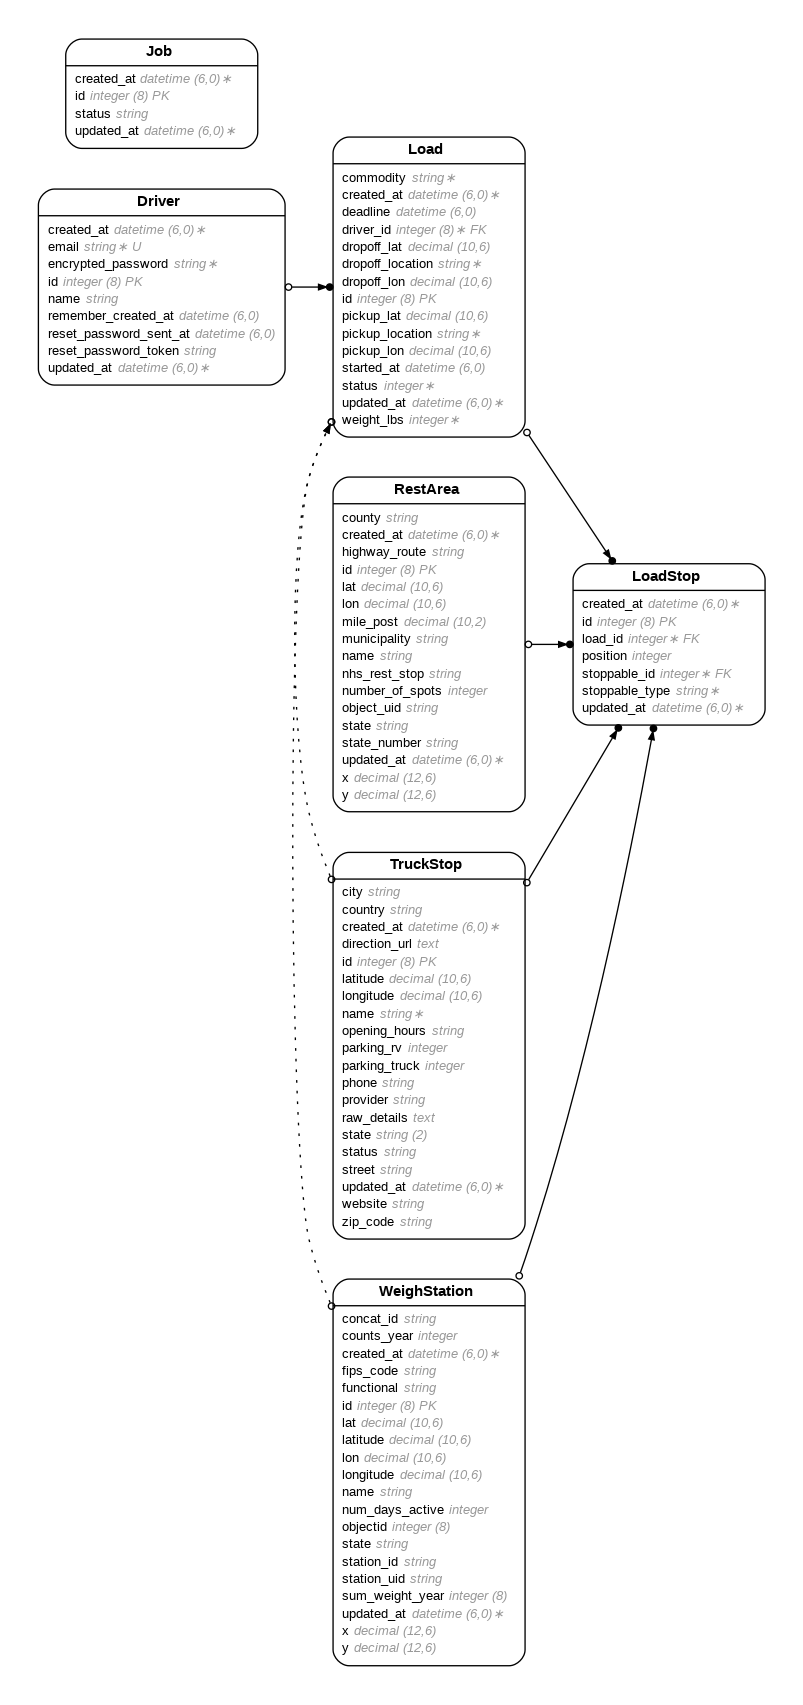
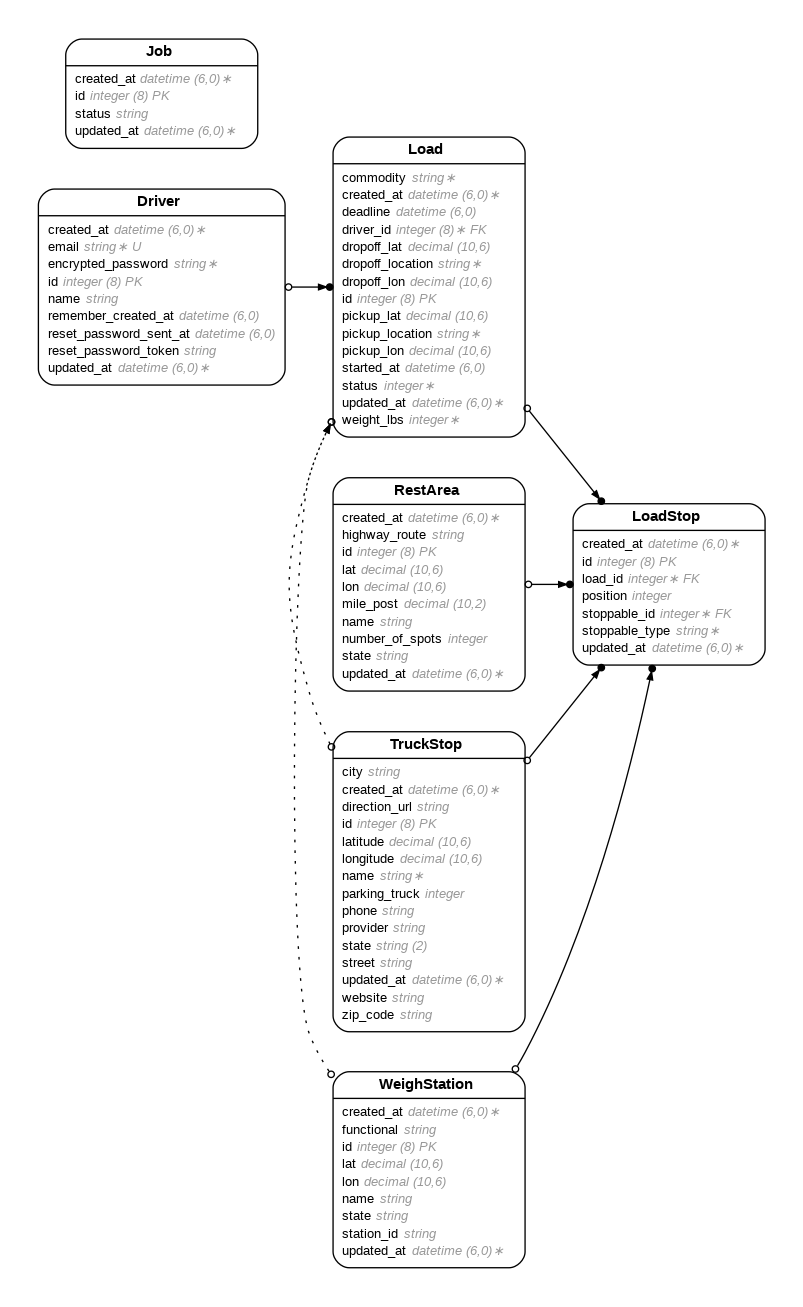
cleaned ununsed columns

diff --git a/db/schema.rb b/db/schema.rb
@@ -10,7 +10,7 @@
 #
 # It's strongly recommended that you check this file into your version control system.
 
-ActiveRecord::Schema[8.0].define(version: 2025_09_17_032904) do
+ActiveRecord::Schema[8.0].define(version: 2025_09_17_062533) do
   # These are extensions that must be enabled in order to support this database
   enable_extension "pg_catalog.plpgsql"
 
@@ -65,24 +65,16 @@ ActiveRecord::Schema[8.0].define(version: 2025_09_17_032904) do
   end
 
   create_table "rest_areas", force: :cascade do |t|
-    t.string "object_uid"
-    t.string "state_number"
-    t.string "nhs_rest_stop"
     t.string "highway_route"
     t.decimal "mile_post", precision: 10, scale: 2
-    t.string "municipality"
-    t.string "county"
     t.string "state"
     t.decimal "lat", precision: 10, scale: 6
     t.decimal "lon", precision: 10, scale: 6
     t.integer "number_of_spots"
-    t.decimal "x", precision: 12, scale: 6
-    t.decimal "y", precision: 12, scale: 6
     t.string "name"
     t.datetime "created_at", null: false
     t.datetime "updated_at", null: false
     t.index ["lat", "lon"], name: "index_rest_areas_on_lat_and_lon"
-    t.index ["object_uid"], name: "index_rest_areas_on_object_uid", unique: true
     t.index ["state", "highway_route", "mile_post"], name: "index_rest_areas_on_state_and_highway_route_and_mile_post"
   end
 
@@ -250,51 +242,34 @@ ActiveRecord::Schema[8.0].define(version: 2025_09_17_032904) do
   create_table "truck_stops", force: :cascade do |t|
     t.string "name", null: false
     t.string "provider"
-    t.string "website"
     t.string "phone"
-    t.string "opening_hours"
     t.string "street"
     t.string "city"
     t.string "state", limit: 2
     t.string "zip_code"
-    t.string "country", default: "US"
-    t.string "status", default: "active"
-    t.text "direction_url"
     t.decimal "latitude", precision: 10, scale: 6
     t.decimal "longitude", precision: 10, scale: 6
     t.integer "parking_truck"
-    t.integer "parking_rv"
-    t.text "raw_details"
     t.datetime "created_at", null: false
     t.datetime "updated_at", null: false
+    t.string "website"
+    t.string "direction_url"
     t.index ["latitude", "longitude"], name: "index_truck_stops_on_latitude_and_longitude"
     t.index ["name", "latitude", "longitude"], name: "index_truck_stops_on_name_lat_lon", unique: true
     t.index ["provider"], name: "index_truck_stops_on_provider"
   end
 
   create_table "weigh_stations", force: :cascade do |t|
-    t.string "station_uid"
-    t.string "concat_id"
-    t.string "fips_code"
     t.string "state"
     t.string "functional"
     t.decimal "lat", precision: 10, scale: 6
     t.decimal "lon", precision: 10, scale: 6
-    t.integer "counts_year"
-    t.bigint "sum_weight_year"
-    t.integer "num_days_active"
-    t.decimal "x", precision: 12, scale: 6
-    t.decimal "y", precision: 12, scale: 6
     t.string "name"
     t.datetime "created_at", null: false
     t.datetime "updated_at", null: false
     t.string "station_id"
-    t.bigint "objectid"
-    t.decimal "latitude", precision: 10, scale: 6
-    t.decimal "longitude", precision: 10, scale: 6
     t.index ["lat", "lon"], name: "index_weigh_stations_on_lat_and_lon"
     t.index ["state", "functional"], name: "index_weigh_stations_on_state_and_functional"
-    t.index ["station_uid"], name: "index_weigh_stations_on_station_uid", unique: true
   end
 
   create_table "widgets", id: :string, force: :cascade do |t|

diff --git a/app/models/weigh_station.rb b/app/models/weigh_station.rb
@@ -2,32 +2,20 @@
 #
 # Table name: weigh_stations
 #
-#  id              :bigint           not null, primary key
-#  counts_year     :integer
-#  fips_code       :string
-#  functional      :string
-#  lat             :decimal(10, 6)
-#  latitude        :decimal(10, 6)
-#  lon             :decimal(10, 6)
-#  longitude       :decimal(10, 6)
-#  name            :string
-#  num_days_active :integer
-#  objectid        :bigint
-#  state           :string
-#  station_uid     :string
-#  sum_weight_year :bigint
-#  x               :decimal(12, 6)
-#  y               :decimal(12, 6)
-#  created_at      :datetime         not null
-#  updated_at      :datetime         not null
-#  concat_id       :string
-#  station_id      :string
+#  id         :bigint           not null, primary key
+#  functional :string
+#  lat        :decimal(10, 6)
+#  lon        :decimal(10, 6)
+#  name       :string
+#  state      :string
+#  created_at :datetime         not null
+#  updated_at :datetime         not null
+#  station_id :string
 #
 # Indexes
 #
 #  index_weigh_stations_on_lat_and_lon           (lat,lon)
 #  index_weigh_stations_on_state_and_functional  (state,functional)
-#  index_weigh_stations_on_station_uid           (station_uid) UNIQUE
 #
 class WeighStation < ApplicationRecord
 has_many :load_stops, as: :stoppable, dependent: :destroy, inverse_of: :stoppable

diff --git a/app/models/rest_area.rb b/app/models/rest_area.rb
@@ -3,27 +3,19 @@
 # Table name: rest_areas
 #
 #  id              :bigint           not null, primary key
-#  county          :string
 #  highway_route   :string
 #  lat             :decimal(10, 6)
 #  lon             :decimal(10, 6)
 #  mile_post       :decimal(10, 2)
-#  municipality    :string
 #  name            :string
-#  nhs_rest_stop   :string
 #  number_of_spots :integer
-#  object_uid      :string
 #  state           :string
-#  state_number    :string
-#  x               :decimal(12, 6)
-#  y               :decimal(12, 6)
 #  created_at      :datetime         not null
 #  updated_at      :datetime         not null
 #
 # Indexes
 #
 #  index_rest_areas_on_lat_and_lon                            (lat,lon)
-#  index_rest_areas_on_object_uid                             (object_uid) UNIQUE
 #  index_rest_areas_on_state_and_highway_route_and_mile_post  (state,highway_route,mile_post)
 #
 class RestArea < ApplicationRecord

diff --git a/app/models/truck_stop.rb b/app/models/truck_stop.rb
@@ -5,19 +5,14 @@
 #
 #  id            :bigint           not null, primary key
 #  city          :string
-#  country       :string           default("US")
-#  direction_url :text
+#  direction_url :string
 #  latitude      :decimal(10, 6)
 #  longitude     :decimal(10, 6)
 #  name          :string           not null
-#  opening_hours :string
-#  parking_rv    :integer
 #  parking_truck :integer
 #  phone         :string
 #  provider      :string
-#  raw_details   :text
 #  state         :string(2)
-#  status        :string           default("active")
 #  street        :string
 #  website       :string
 #  zip_code      :string

diff --git a/spec/models/truck_stop_spec.rb b/spec/models/truck_stop_spec.rb
@@ -5,19 +5,14 @@
 #
 #  id            :bigint           not null, primary key
 #  city          :string
-#  country       :string           default("US")
-#  direction_url :text
+#  direction_url :string
 #  latitude      :decimal(10, 6)
 #  longitude     :decimal(10, 6)
 #  name          :string           not null
-#  opening_hours :string
-#  parking_rv    :integer
 #  parking_truck :integer
 #  phone         :string
 #  provider      :string
-#  raw_details   :text
 #  state         :string(2)
-#  status        :string           default("active")
 #  street        :string
 #  website       :string
 #  zip_code      :string

diff --git a/db/migrate/20250917062533_readd_missing_columns_for_ui.rb b/db/migrate/20250917062533_readd_missing_columns_for_ui.rb
@@ -1,0 +1,8 @@
+# db/migrate/20250917062533_readd_missing_columns_for_ui.rb
+class ReaddMissingColumnsForUi < ActiveRecord::Migration[8.0]
+  def change
+    add_column :rest_areas,  :name,          :string unless column_exists?(:rest_areas,  :name)
+    add_column :truck_stops, :website,       :string unless column_exists?(:truck_stops, :website)
+    add_column :truck_stops, :direction_url, :string unless column_exists?(:truck_stops, :direction_url)
+  end
+end

diff --git a/db/migrate/20250917053055_cleanup_rest_areas.rb b/db/migrate/20250917053055_cleanup_rest_areas.rb
@@ -1,0 +1,17 @@
+class CleanupRestAreas < ActiveRecord::Migration[7.1]
+  def change
+    %i[
+      county
+      municipality
+      nhs_rest_stop
+      state_number
+      objectid   # <-- correct name (NOT object_uid)
+      x
+      y
+      latitude   # safe even if it doesn't exist
+      longitude  # safe even if it doesn't exist
+    ].each do |col|
+      remove_column :rest_areas, col, if_exists: true
+    end
+  end
+end

diff --git a/db/migrate/20250917053122_cleanup_weigh_stations.rb b/db/migrate/20250917053122_cleanup_weigh_stations.rb
@@ -1,0 +1,10 @@
+class CleanupWeighStations < ActiveRecord::Migration[7.1]
+  def change
+    # we now standardize on lat/lon only
+    remove_columns :weigh_stations,
+                   :concat_id, :station_uid, :objectid, :fips_code,
+                   :counts_year, :num_days_active, :sum_weight_year,
+                   :x, :y, :latitude, :longitude,
+                   if_exists: true
+  end
+end

diff --git a/db/migrate/20250917053142_cleanup_truck_stops.rb b/db/migrate/20250917053142_cleanup_truck_stops.rb
@@ -1,0 +1,8 @@
+class CleanupTruckStops < ActiveRecord::Migration[7.1]
+  def change
+    remove_columns :truck_stops,
+                   :country, :opening_hours, :parking_rv, :website,
+                   :status, :raw_details, :direction_url,
+                   if_exists: true
+  end
+end
